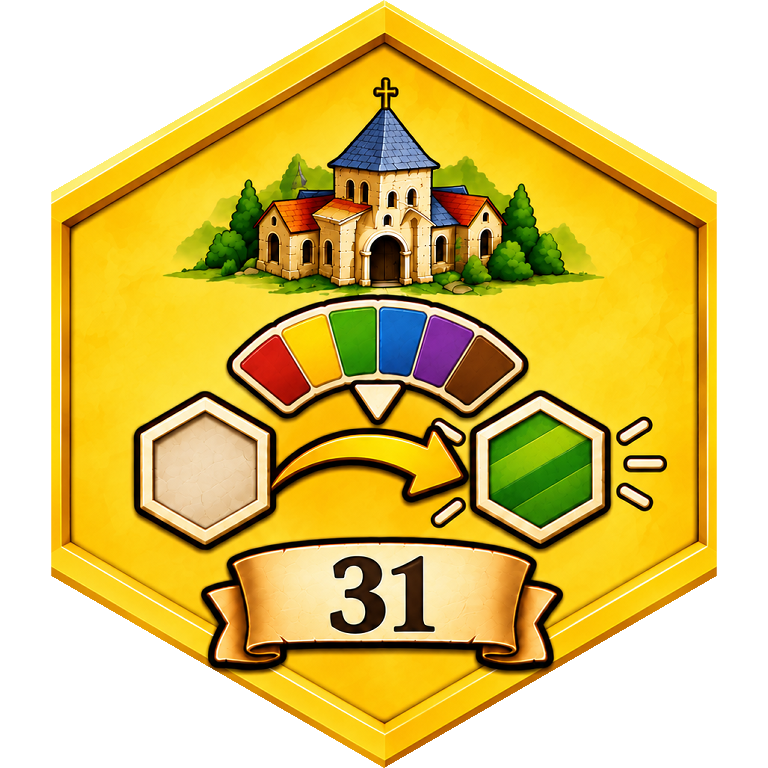
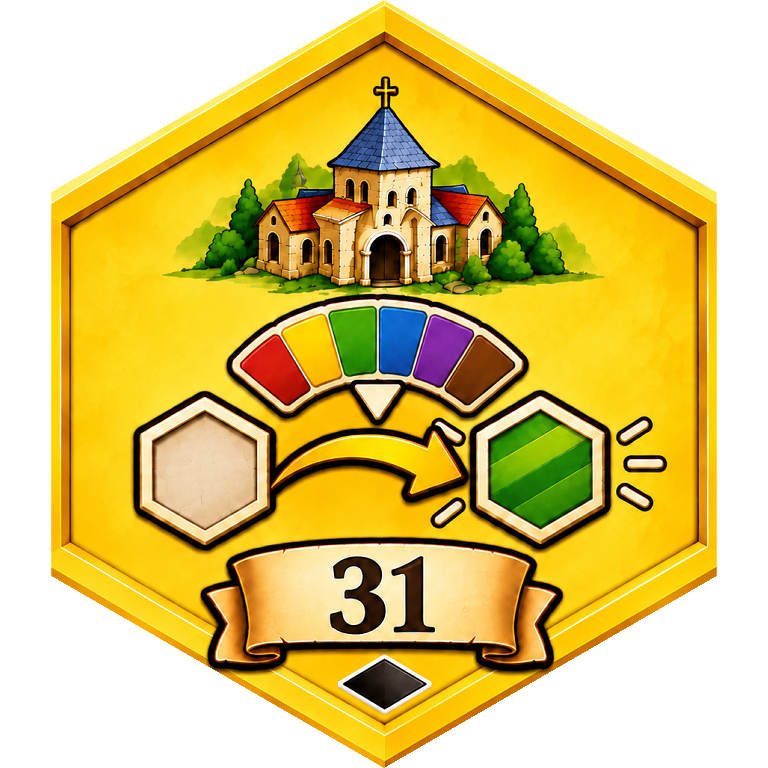
fix: publish corrected monastery 31 artwork to main [skip render] [no-deploy]

diff --git a/tests/browser/custom-art.spec.ts b/tests/browser/custom-art.spec.ts
@@ -73,6 +73,18 @@ test('monastery 31 keeps its black-supply identity with the approved yellow face
  const approved=black.locator('image[data-approved-monastery="31"]');
  await expect(approved).toBeAttached();
  await expect(approved).toHaveAttribute('href',/monastery-31\.png\?v=/);
+ const diamond=await approved.evaluate(async el=>{
+  const image=new Image();
+  image.src=el.getAttribute('href')!;
+  await image.decode();
+  const canvas=document.createElement('canvas');
+  canvas.width=canvas.height=1;
+  const pixels=canvas.getContext('2d')!;
+  pixels.drawImage(image,384,685,1,1,0,0,1,1);
+  return Array.from(pixels.getImageData(0,0,1,1).data);
+ });
+ expect(diamond[3]).toBe(255);
+ expect(Math.max(...diamond.slice(0,3))).toBeLessThan(80);
  await black.screenshot({path:info.outputPath('black-supply-31.png')});
 });
 

diff --git a/scripts/prepare-custom-tile-art.py b/scripts/prepare-custom-tile-art.py
@@ -17,7 +17,7 @@ spec.loader.exec_module(monastery)
 
 SOURCE_HASHES = {
[6 lines of base64/hex data omitted]
@@ -119,7 +119,8 @@ def update_family(family, folder, first, last, check):
     for number in range(first, last + 1):
         name = f"{family}-{number}"
         filename = f"{name}.png"
-        source = f"asset-inbox/{family}-approved/originals/{filename}"
+        source_filename = "monastery-31-revised.png" if name == "monastery-31" else filename
+        source = f"asset-inbox/{family}-approved/originals/{source_filename}"
         data = (ROOT / source).read_bytes()
         digest = sha256(data).hexdigest()
         assert digest == SOURCE_HASHES[name], f"Unreviewed source: {source}"
@@ -134,10 +135,14 @@ def update_family(family, folder, first, last, check):
             assert actual.format == "PNG" and actual.mode == "RGBA" and actual.size == image.size
             assert actual.tobytes() == image.tobytes(), f"Rebuild {filename}"
         else:
-            image.save(output, optimize=True)
+            png = BytesIO()
+            image.save(png, format="PNG", optimize=True)
+            if not output.exists() or output.read_bytes() != png.getvalue():
+                output.write_bytes(png.getvalue())
+        provenance = {"zipEntry": f"{'수도원' if alpha else '방패'} 타일/{number}번.png"} if source_filename == filename else {}
         assets.append({"number": number, "file": filename, "source": source, "sourceSha256": digest,
                        "sourceSize": original.size, "sourceMode": original.mode,
-                       "zipEntry": f"{'수도원' if alpha else '방패'} 타일/{number}번.png",
+                       **provenance,
                        **({"scoreArtwork": {"points": 12, "numeralFromShield": 23}}
                           if family == "shield" and number in (21, 24) else {}),
                        "outputSha256": sha256(output.read_bytes()).hexdigest(), **geometry})
@@ -150,7 +155,7 @@ def update_family(family, folder, first, last, check):
     normalized = json.dumps(expected, ensure_ascii=False, indent=2) + "\n"
     if check:
         assert manifest == json.loads(normalized), f"Stale manifest: {manifest_path}"
-    else:
+    elif manifest != json.loads(normalized):
         manifest_path.write_text(normalized, encoding="utf-8")
 
 

diff --git a/docs/CUSTOM_SHIELDS_AND_MONASTERIES.md b/docs/CUSTOM_SHIELDS_AND_MONASTERIES.md
@@ -35,7 +35,7 @@
 
 ## 승인 이미지 등록
 
-승인 원본은 `asset-inbox/shield-approved/originals/shield-19.png`~`shield-24.png`와 `asset-inbox/monastery-approved/originals/monastery-30.png`~`monastery-32.png`에 보존한다. 수도원 31번도 제공된 ZIP의 `31번.png`를 사용했다. 30~32번 원본은 1293×1216 RGB, 방패 19~23번은 1043×1508 RGBA, 방패 24번은 1086×1448 RGB다.
+승인 원본은 `asset-inbox/shield-approved/originals/shield-19.png`~`shield-24.png`와 `asset-inbox/monastery-approved/originals/monastery-30.png`~`monastery-32.png`에 보존한다. 수도원 31번은 같은 폴더의 `monastery-31-revised.png`(1294×1216 RGB)를 현재 파생본에 사용한다. 이 수정본은 하단 검은 마름모가 추가된 첨부 원본이다. 수도원 ZIP 원본은 1293×1216 RGB, 방패 19~23번은 1043×1508 RGBA, 방패 24번은 1086×1448 RGB다.
 
 파생 파일은 같은 번호로 각각 `public/shields/` (1200×1480 RGBA)와 `public/assets/tiles/monastery/final/` (768×768 RGBA)에 등록했다. 수도원은 기존 1~29번의 1024 캔버스와 동일한 비율·중심·바깥 SVG 클립을 사용한다. 31번의 노란 앞면과 검은 공급 분류는 각각 이미지와 기존 타일 데이터가 담당한다. 방패 24번은 화면 바깥에서 이어지는 배경을 제거하고 효과 안의 검은 육각형을 보존했다. 기존 PNG 47장의 파일 해시가 유지된다.
 

diff --git a/docs/PROGRESS.md b/docs/PROGRESS.md
@@ -1,3 +1,10 @@
+# 공용보드 4번 방패 및 수도원 31번 원격 반영 (2026-11-25)
+
+- 로컬 ac2e031·e89dcc7은 유지됐으며 원격 fb338bc에는 두 수정이 누락됐다. 하단 방패 구역과 31번 수정 앞면을 각각 원격 변경 위에 반영한다.
+- 운영 버전 응답은 fb338bc였다. 버전 API는 no-store, 정적 31번 PNG는 max-age=0이며 원격의 기존 파일과 해시가 일치했다. 수정본은 해시가 포함된 새 URL을 사용한다.
+
+--- 이전 기록 보존 ---
+
 # 방패 21·22 사용 제한 및 21·24 종료 점수 (2026-11-25)
 
 - 방패 21번은 상대 저장고 구매와 별도로 눈금 변경을 사용한 다음 자기 턴에 재사용을 기다린다. 22번은 원하는 자기 턴에 세 번째 행동 주사위를 굴리며 각 페이즈에 한 번 쓸 수 있다.

diff --git a/docs/TODO.md b/docs/TODO.md
@@ -1,3 +1,9 @@
+# 공용보드 4번 방패 및 수도원 31번 원격 반영 (2026-11-25)
+
+- [x] 기존 변경 파일과 원격 차이를 확인하고, 공용보드 방패 구역과 수도원 31번 수정 이미지의 원격 반영 범위를 분리.
+
+--- 이전 기록 보존 ---
+
 # 방패 21·22 사용 제한 및 21·24 종료 점수 (2026-11-25)
 
 - [x] 방패 21번 눈금 변경 대기, 22번 선택 발동·페이즈 초기화, 21번·24번 종료 12점과 이미지·툴팁, AI·저장·온라인 렌더링 검증.
